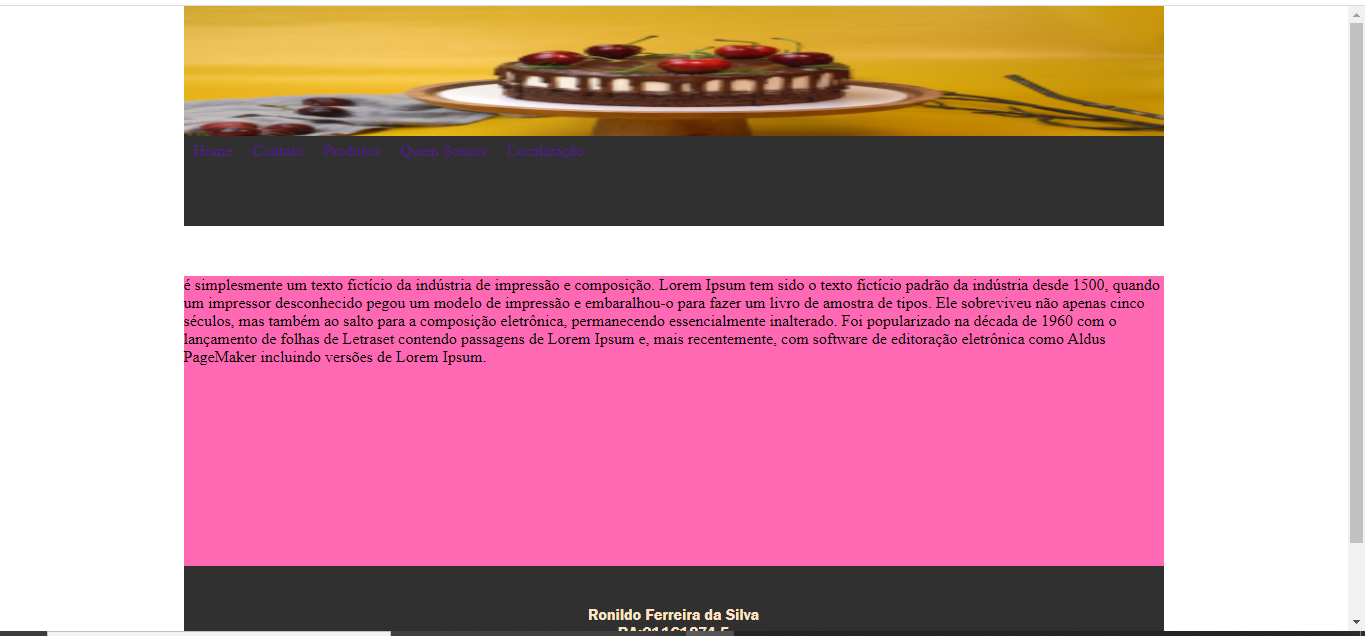
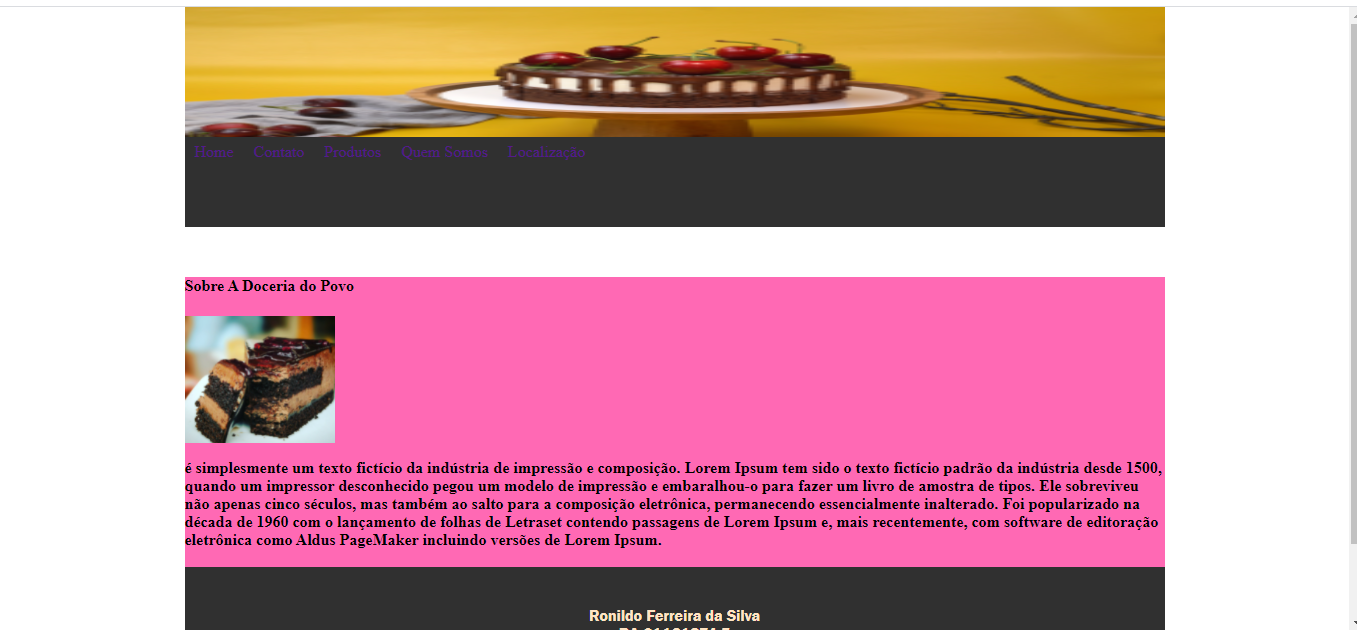
adicionando functions

diff --git a/dados/dados.php b/dados/dados.php
@@ -1,21 +1,24 @@
-</html>
+<html>
 
 <?php
 
-$dados = [[
-  "email" => ['bolos@bolos.com.br'],
-  "telefone" => ['(89)9 9999-9999'],
-  "facebook" => ['facebook.com.br'],
-  "instagram" => ['@bolosfelizes'],
-];
+$dados = array(
+  'email' => "bolos@bolos.com.br",
+  'telefone' => "(89)9 9999-9999",
+  'facebook' => "bolodelicia@facebook.com.br",
+  'instagram' => "@bolosfelizes",
+);
 
-$produtos = [[
-  'mussi' => "Mussi de Leite", 15.99],
-  'boloDeChocolotate' => "Bolo de Chocolate" , 21.35],
-  'boloDoce' => "Bolo no Pote" , 22.23],
+$produtos = array(
+  'mussi' => "Mussi de Leite", 15.99,
+  'boloDeChocolotate' => "Bolo de Chocolate" , 21.35,
+  'boloDoce' => "Bolo no Pote" , 22.23,
   
-  ];
+);
+
+  
 
  ?>
-
-
+<br>
+<br>
+</html>

diff --git a/home.php b/home.php
@@ -2,7 +2,10 @@
 <?php include "head.php"?>
 <body>
 <div class="conteudo">
+    <h4>Sobre A Doceria do Povo<h4>
+        <img src="imagens/img11.jpeg" width=150 heigth="100">
 <p>
+
 é simplesmente um texto fictício da indústria de impressão e composição. 
 Lorem Ipsum tem sido o texto fictício padrão da indústria desde 1500, 
 quando um impressor desconhecido pegou um modelo de impressão e embaralhou-o 

diff --git a/functions/functions.php b/functions/functions.php
@@ -1,5 +1,26 @@
+<html>
 <?php
 
+function exibirProduto($produtoInfo){  
+    include "dados/dados.php";
+    foreach ($produtos as $produto) {
+        echo $produto;
+        echo "<br>";
+
+    
+    }
+}
+
+function exibirDado($dadosInfo){
+    include "dados/dados.php";
+    foreach ($dados as $dado) {
+        echo $dado;
+        echo "<br>";
+    
+      }
+}
 
 
 ?>
+<br>
+</html>

diff --git a/produtos.php b/produtos.php
@@ -1,16 +1,18 @@
 <?php
 
-include "head.php"
-
+include "head.php";
+include "functions/functions.php";
+$dadosInfo = [];
 ?>
 
 <html>
-
+<img src="imagens/img04.jpg" width=120 height="80"/>
 <?php 
-
-echo $produtos;
-
+$dadosInfo = [];
+exibirProduto($produtoInfo);
 ?>
+
+<br>
 </html>
 
 <?php include "footer.php"?>

diff --git a/contato.php b/contato.php
@@ -1,13 +1,20 @@
 <?php
 
-include "head.php"
 
+
+include "head.php";
+include "functions/functions.php";
+$dadosInfo = [];
 
 ?>
 
 <html>
 <div class="contato">
 
-</html>
-<?php echo $dados;?>
+
+<?php exibirDado($dadosInfo);?>
+
+<br>
 <?php include "footer.php"?>
+
+</html>
